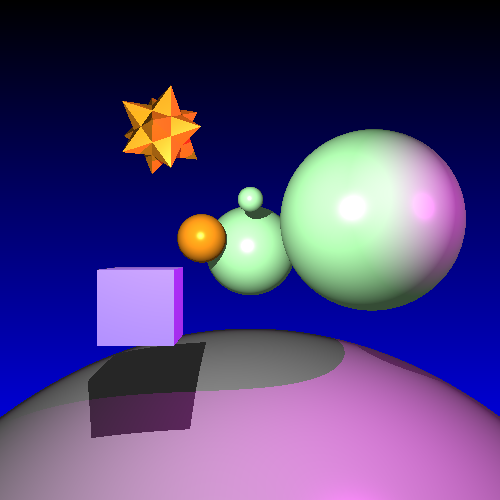
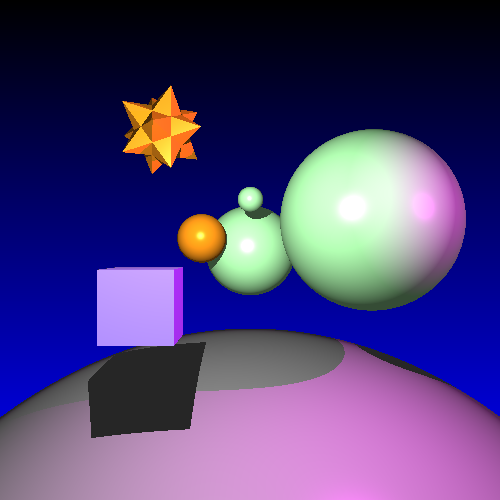
Multi-Threading Rendering
The number of threads to be used can now be specified as a command line argument.

The test script will run the ray tracer using the number of cores on the machine.

Changed region(s): [[0.18, 0.78, 0.39, 0.9], [0.72, 0.69, 0.9, 0.78]]

diff --git a/src/renderer.cpp b/src/renderer.cpp
@@ -1,5 +1,25 @@
 #include "renderer.hpp"
 #include <iostream>
+#include <pthread.h>
+#include <vector>
+
+/*
+  Wrapper types and functions for the creation of new threads
+*/
+
+struct Args {
+  Renderer* renderer;
+  int startRow;
+  int numRows;
+};
+
+void* startThread(void* data)
+{
+  struct Args* args = (struct Args*)data;
+  args->renderer->renderRows(args->startRow, args->numRows);
+
+  return NULL;
+}
 
 /*
   *************** Renderer **************
@@ -15,24 +35,41 @@ Renderer::~Renderer()
 {
 }
 
-void Renderer::render(const std::string& filename)
+void Renderer::render(const std::string& filename, const int numThreads)
 {
-  for (int y = 0; y < scene->height; y++) {
+  std::vector<pthread_t*> threads;
+  int rowsPerThread = scene->height / numThreads;
+  struct Args* data = new Args[numThreads];
+  for (int i = 0; i < numThreads; i++) {
+    pthread_t* thread = new pthread_t;
+    threads.push_back(thread);
+
+    data[i].renderer = this;
+    data[i].startRow = i * rowsPerThread;
+    data[i].numRows = rowsPerThread + (i == numThreads - 1 ? scene->height % numThreads : 0);
+    pthread_create(thread, NULL, &startThread, (void *)&data[i]);
+  }
+
+  for (std::vector<pthread_t*>::iterator it = threads.begin(); it != threads.end(); it++) {
+    pthread_join(**it, NULL);
+    delete *it;
+  }
+  delete [] data;
+  
+  img.savePng(filename);
+}
+
+void Renderer::renderRows(const int startRow, const int numRows)
+{
+  for (int y = startRow; y < startRow + numRows; y++) {
     for (int x = 0; x < scene->width; x++) {
       Colour c = getPixelColour(x, y);
       img(x, y, 0) = c.R();
       img(x, y, 1) = c.G();
       img(x, y, 2) = c.B();
     }
-    if (y % (scene->height / 10) == 0) {
-      std::cerr << 10 * (y / (scene->height / 10)) << "% .. ";
-    }
   }
-  std::cerr << std::endl;
-
-  img.savePng(filename);
 }
-
 /*
   *************** BasicRenderer **************
 */

diff --git a/src/main.cpp b/src/main.cpp
@@ -15,10 +15,13 @@ int main(int argc, char** argv)
   }
 
   Renderer* renderer = NULL;
+  int numCores = 1;
   if (argc >= 3) {
     for (int i = 1; i < argc - 1; i++) {
       if (std::string(argv[i]) == "-s") {
         renderer = new StochasticRenderer(scene);
+      } else if (std::string(argv[i]) == "-c") {
+        numCores = atoi(argv[i+1]);
       }
     }
   }
@@ -26,7 +29,7 @@ int main(int argc, char** argv)
     renderer = new BasicRenderer(scene);
   }
 
-  renderer->render(outfile);
+  renderer->render(outfile, numCores);
   delete renderer;
 }
 

diff --git a/src/renderer.hpp b/src/renderer.hpp
@@ -10,7 +10,9 @@ class Renderer {
  public:
   Renderer(const Scene* scene);
   virtual ~Renderer();
-  void render(const std::string& filename);
+  void render(const std::string& filename, const int numThreads);
+
+  void renderRows(const int startRow, const int numRows);
 
  protected:
   virtual Colour getPixelColour(const int x, const int y) = 0;
